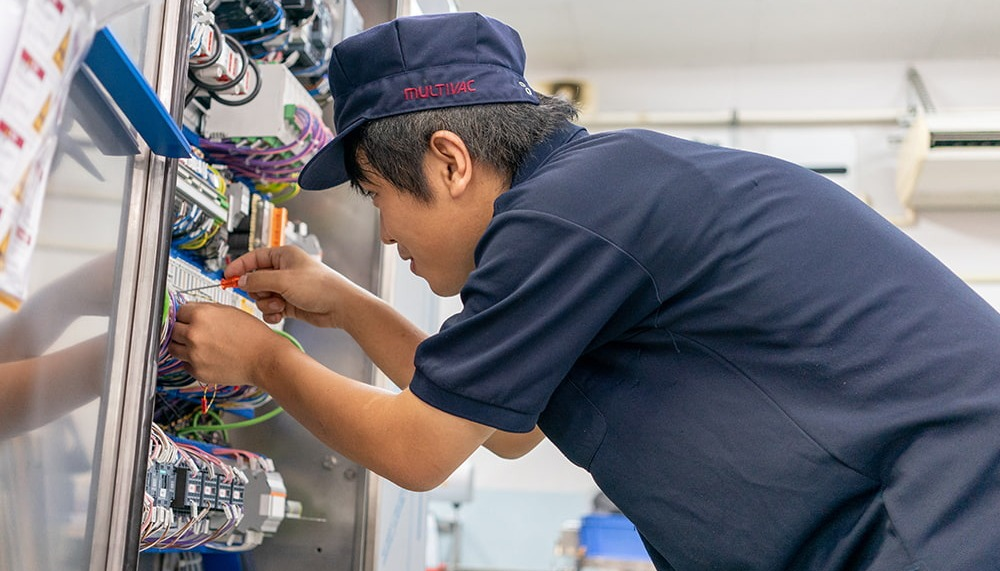
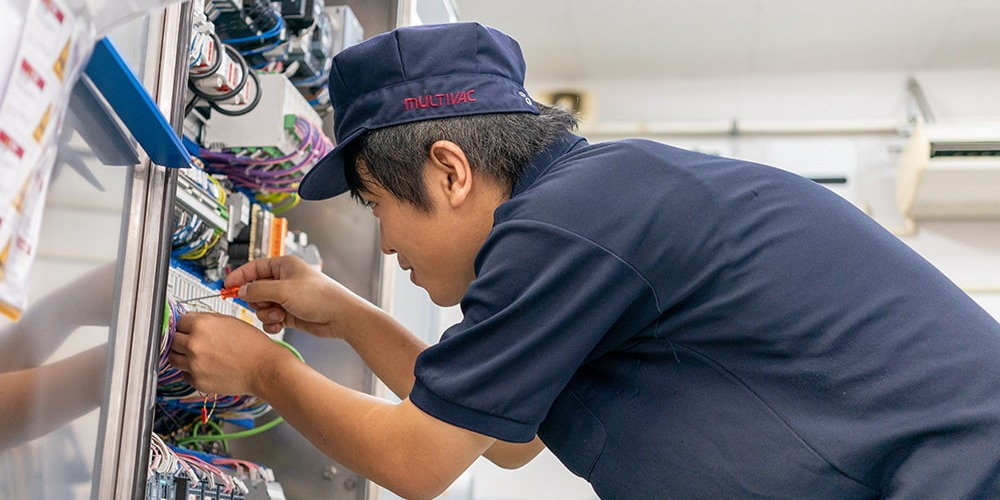
fix: WF13 の列比を Smart Services / CS に統一し、画像2点を差し替え
ユーザー指示2点。

① ①（タイトル横）と②（PMA）の列比を `1fr 420px` → `1fr 1fr` に。
   これで4セクションすべて 560px + 560px / gap 32px で揃った
   （Smart Services の動画・CS と同じ）。①の画像高さも CS と同じ280pxに。

② 画像の差し替え
   - 枠①: 01.jpg（制御盤の点検）→ 04.jpg（機械の搬出入）＝ support-delivery.jpg
   - 枠③: 03.jpg（部品倉庫）→ 01.jpg（制御盤の点検）＝ support-engineer.jpg
   - 使われなくなった images/support-parts.jpg を削除

枠比に合わせて切り直し、3枠とも枠比＝画像比が一致（切り取りゼロ）。
②の support-pma.jpg は枠比2.691のままで再トリミング不要だった。

diff --git a/13_service-aftersales.html b/13_service-aftersales.html
@@ -116,10 +116,10 @@ footer { background:#f5f7fa; color:#333; padding:48px 0 0; margin-top:60px; font
 .mv-overlay { position:absolute; inset:0; display:flex; flex-direction:column; align-items:flex-start; justify-content:center; background:rgba(0,24,64,.5); padding:0 0 24px calc(max(24px, 50% - 576px)); }
 .mv-title { color:#fff; font-size:38px; font-weight:900; letter-spacing:2px; margin-bottom:10px; text-shadow:0 2px 8px rgba(0,0,0,.4); }
 .mv-en { color:rgba(255,255,255,.8); font-size:14px; letter-spacing:4px; }
-    .sup-intro { display:grid; grid-template-columns:1fr 420px; gap:32px; align-items:center; border-bottom:1px solid #eee; padding-bottom:32px; margin-bottom:40px; }
-    .sup-pma { display:grid; grid-template-columns:1fr 420px; gap:32px; align-items:stretch; }
+    .sup-intro { display:grid; grid-template-columns:1fr 1fr; gap:32px; align-items:center; border-bottom:1px solid #eee; padding-bottom:32px; margin-bottom:40px; }
+    .sup-pma { display:grid; grid-template-columns:1fr 1fr; gap:32px; align-items:stretch; }
     .sup-photo { width:100%; display:block; object-fit:cover; border-radius:4px; }
-    .sup-photo-intro { height:240px; }
+    .sup-photo-intro { height:280px; }
     .sup-photo-pma   { height:100%; }
     .sup-photo-parts { height:280px; }
 </style>
@@ -168,7 +168,7 @@ footer { background:#f5f7fa; color:#333; padding:48px 0 0; margin-top:60px; font
       </div>
       <p style="font-size:15px;line-height:2;color:#444;max-width:720px">設備導入後の停止リスクを最小化。<br>全国体制と専任エンジニアにより、長期にわたる安定稼働を支えます。</p>
     </div>
-    <img class="sup-photo sup-photo-intro" src="images/support-engineer.jpg" alt="制御盤の配線を点検するサービスエンジニア">
+    <img class="sup-photo sup-photo-intro" src="images/support-delivery.jpg" alt="梱包した機械の搬出入作業">
   </div>
 
   <!-- PMA -->
@@ -226,7 +226,7 @@ footer { background:#f5f7fa; color:#333; padding:48px 0 0; margin-top:60px; font
         </ul>
       </div>
     </div>
-    <img class="sup-photo sup-photo-parts" src="images/support-parts.jpg" alt="補修部品を保管する部品倉庫">
+    <img class="sup-photo sup-photo-parts" src="images/support-engineer.jpg" alt="制御盤の配線を点検するサービスエンジニア">
   </div>
 
   <div style="margin-bottom:40px">
